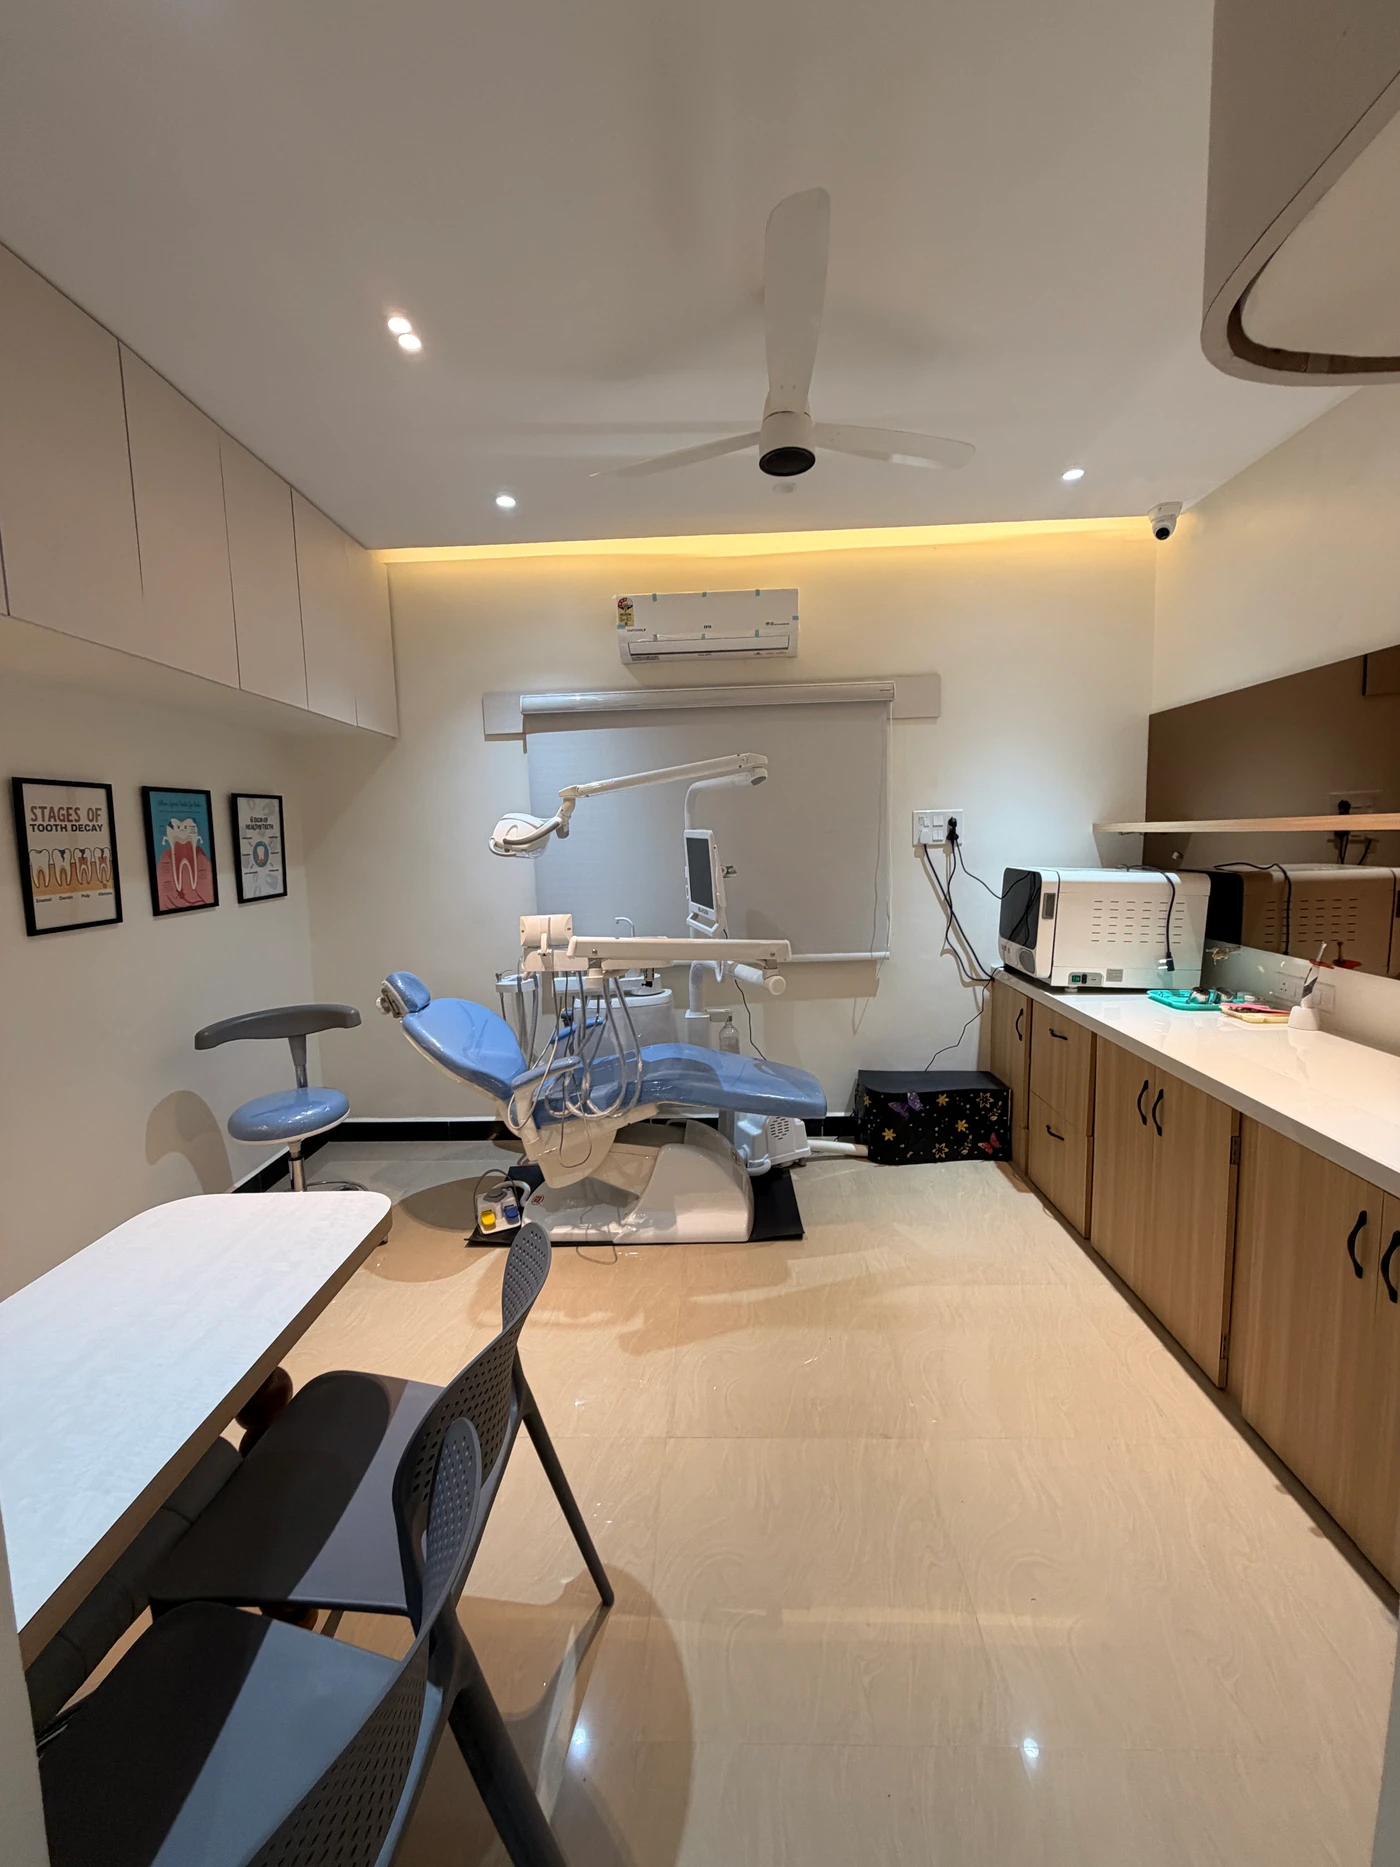
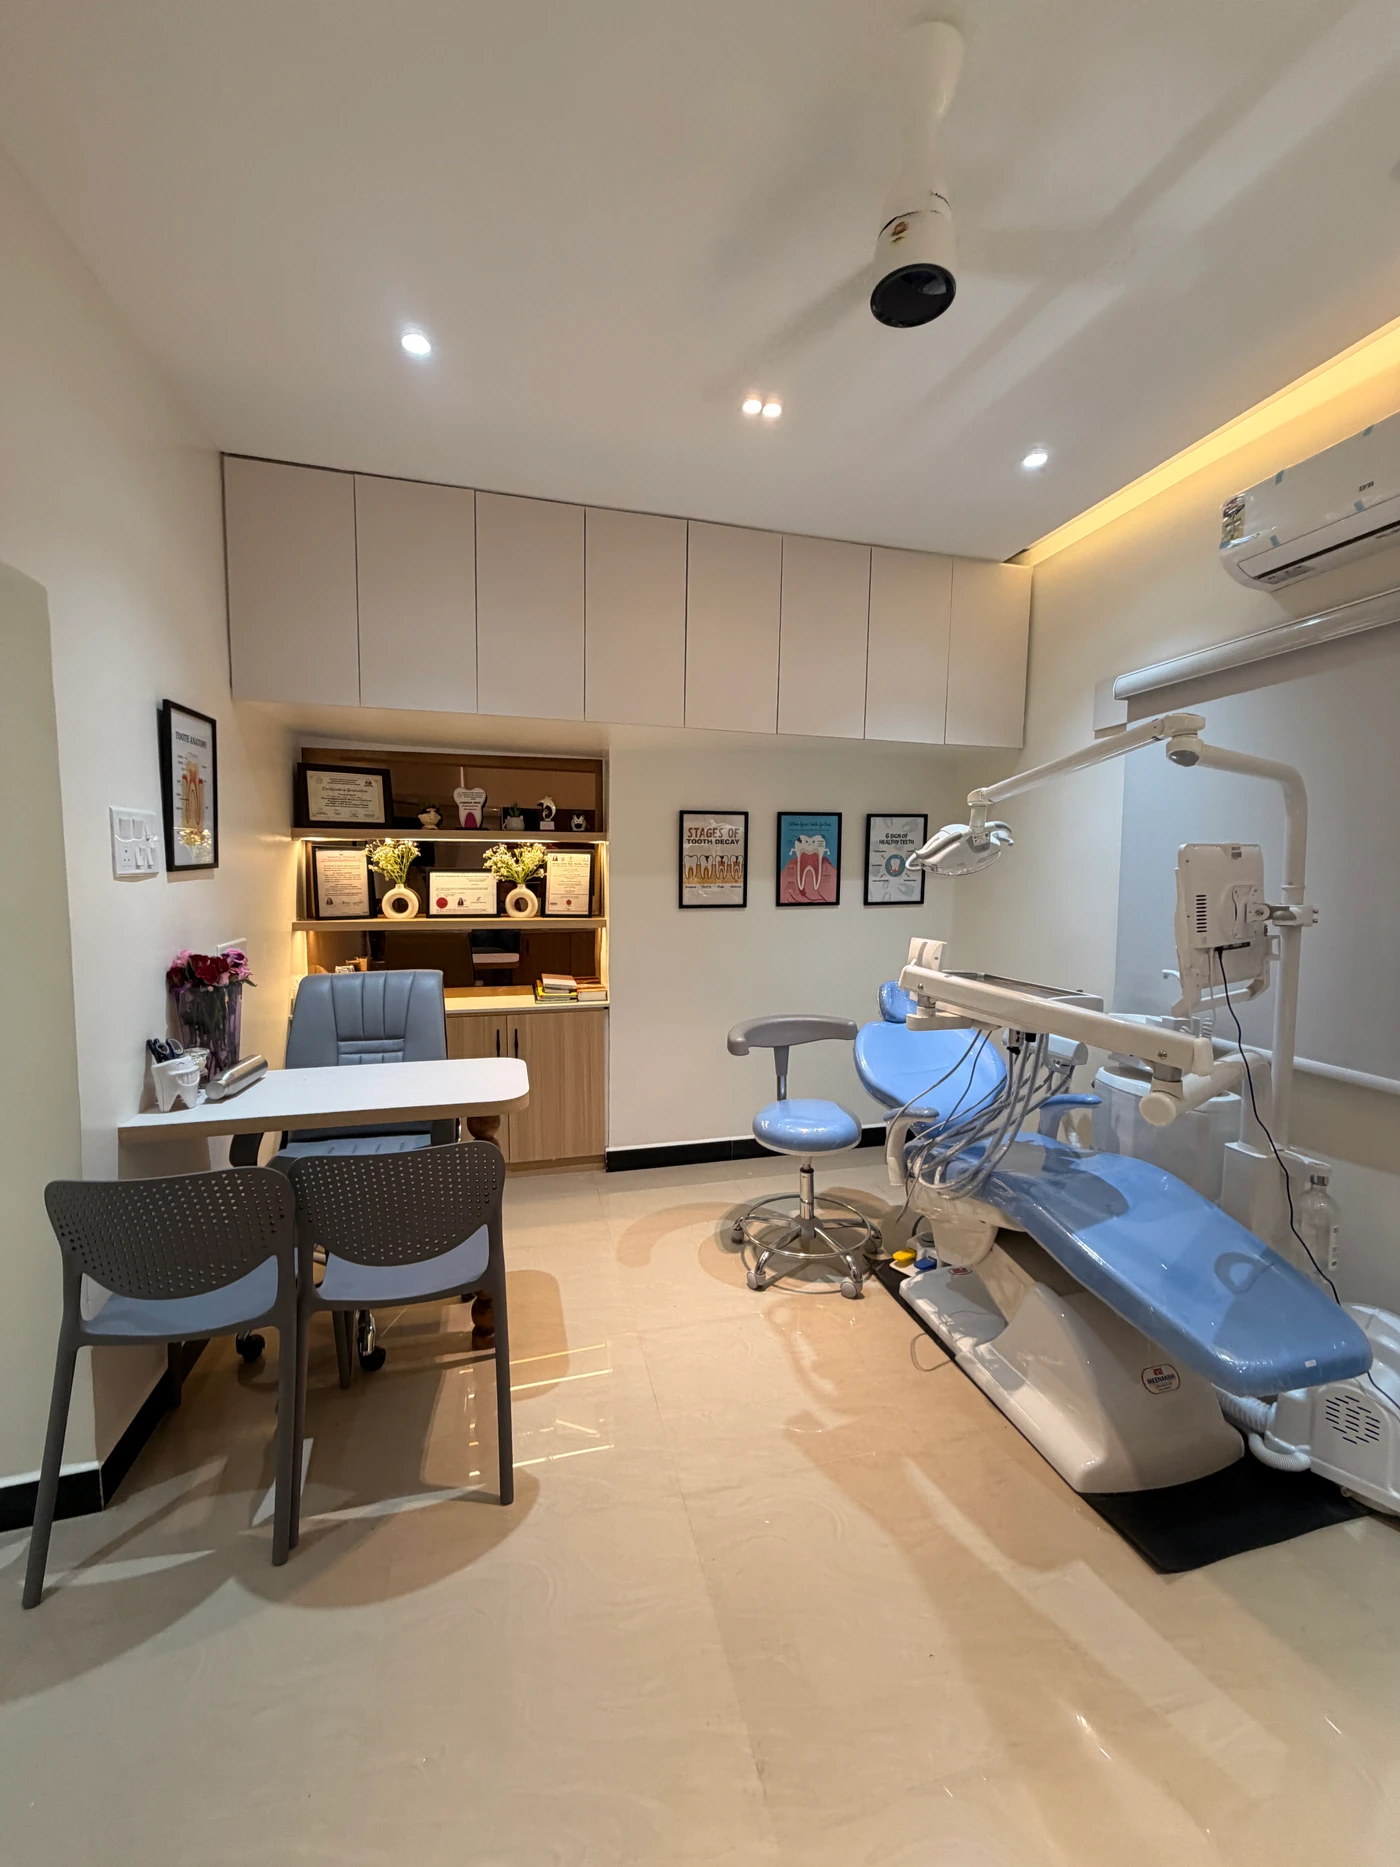
Improve hero clinic photos, add Saturday notice, and remove broken before/after slider

diff --git a/src/components/home/Hero.tsx b/src/components/home/Hero.tsx
@@ -1,17 +1,35 @@
 import { siteConfig } from "@/lib/site-config";
-import { MessageCircle, Phone, Sparkles } from "lucide-react";
+import { Info, MessageCircle, Phone, Sparkles } from "lucide-react";
 import Image from "next/image";
+
+const heroImages = [
+  {
+    src: "/images/clinic-treatment-room-wide.webp",
+    alt: "Modern dental treatment room at Align Dental Clinic",
+    label: "Treatment Room",
+  },
+  {
+    src: "/images/clinic-reception.webp",
+    alt: "Reception area at Align Dental Clinic",
+    label: "Reception",
+  },
+  {
+    src: "/images/clinic-exterior.webp",
+    alt: "Align Dental Clinic entrance in Ahilyanagar",
+    label: "Clinic Entrance",
+  },
+] as const;
 
 export function Hero() {
   return (
-    <section className="hero-section relative isolate min-h-[92vh] overflow-hidden bg-[#faf6ef] pt-28">
+    <section className="hero-section relative isolate overflow-hidden bg-[#faf6ef] pt-28 pb-16 lg:pb-24">
       <div className="grain-overlay bg-hero-gradient absolute inset-0" />
       <div className="pattern-dots absolute inset-0 opacity-60" />
       <div className="pointer-events-none absolute -right-40 top-20 h-[500px] w-[500px] rounded-full bg-gold/20 blur-[100px]" />
       <div className="pointer-events-none absolute -left-40 bottom-0 h-[400px] w-[400px] rounded-full bg-navy/8 blur-[80px]" />
 
-      <div className="relative mx-auto grid max-w-7xl items-center gap-12 px-4 py-12 sm:px-6 lg:grid-cols-2 lg:gap-16 lg:px-8 lg:py-20">
-        <div className="hero-content">
+      <div className="relative mx-auto max-w-7xl px-4 py-12 sm:px-6 lg:px-8 lg:py-16">
+        <div className="hero-content mx-auto max-w-3xl text-center lg:max-w-4xl">
           <div className="mb-6 inline-flex items-center gap-2 rounded-full border border-gold/40 bg-white px-4 py-2 shadow-sm">
             <Sparkles className="h-4 w-4 text-[#a8883f]" aria-hidden="true" />
             <span className="text-sm font-semibold tracking-wide text-[#152d4a]">
@@ -24,15 +42,15 @@ export function Hero() {
             <span className="hero-title-accent block">Now in Ahilyanagar</span>
           </h1>
 
-          <p className="mt-6 max-w-lg text-lg leading-relaxed sm:text-xl">
+          <p className="mx-auto mt-6 max-w-2xl text-lg leading-relaxed sm:text-xl">
             Advanced technology, expert orthodontic care, and patient-centred service —
             comprehensive dental treatments for your entire family.
           </p>
-          <p className="mt-3 max-w-lg text-base leading-relaxed opacity-80">
+          <p className="mx-auto mt-3 max-w-2xl text-base leading-relaxed opacity-80">
             {siteConfig.marathi.heroSubtitle}
           </p>
 
-          <div className="mt-10 flex flex-wrap gap-4">
+          <div className="mt-10 flex flex-wrap justify-center gap-4">
             <a
               href={siteConfig.contact.whatsappHref}
               target="_blank"
@@ -51,7 +69,20 @@ export function Hero() {
             </a>
           </div>
 
-          <div className="mt-10 flex items-center gap-4 border-t border-[#152d4a]/10 pt-8">
+          <p className="mx-auto mt-6 flex max-w-lg items-start gap-2 rounded-xl border border-gold/30 bg-white/80 px-4 py-3 text-left text-sm leading-relaxed text-[#3d5a78] shadow-sm backdrop-blur-sm">
+            <Info className="mt-0.5 h-4 w-4 shrink-0 text-gold-dark" aria-hidden="true" />
+            <span>
+              {siteConfig.contact.hours.saturdayNote}.{" "}
+              <a
+                href={siteConfig.contact.phoneHref}
+                className="font-semibold text-[#152d4a] underline decoration-gold/50 underline-offset-2 transition-colors hover:text-gold-dark"
+              >
+                {siteConfig.contact.phone}
+              </a>
+            </span>
+          </p>
+
+          <div className="mt-10 flex items-center justify-center gap-4 border-t border-[#152d4a]/10 pt-8">
             <div className="relative h-14 w-14 shrink-0 overflow-hidden rounded-full border-2 border-gold/40 shadow-md ring-2 ring-gold/20">
               <Image
                 src="/images/doctor-portrait.webp"
@@ -61,7 +92,7 @@ export function Hero() {
                 className="object-cover object-top"
               />
             </div>
-            <div>
+            <div className="text-left">
               <p className="font-heading text-lg font-semibold text-[#152d4a]">
                 {siteConfig.doctor.name}
               </p>
@@ -72,44 +103,29 @@ export function Hero() {
           </div>
         </div>
 
-        <div className="grid grid-cols-2 gap-4">
-          <div className="relative col-span-2 overflow-hidden rounded-2xl border-2 border-gold/30 shadow-[var(--shadow-card)] sm:col-span-1 sm:row-span-2">
-            <div className="absolute inset-x-0 top-0 z-10 h-1 bg-gradient-to-r from-gold-dark via-gold to-gold-light" />
-            <div className="relative aspect-[3/4] w-full sm:aspect-auto sm:h-full sm:min-h-[420px]">
-              <Image
-                src="/images/hero-treatment-room.webp"
-                alt="Modern dental treatment room at Align Dental Clinic"
-                fill
-                sizes="(max-width: 1024px) 50vw, 25vw"
-                className="object-cover object-center"
-                priority
-              />
+        <div className="mt-12 grid grid-cols-1 gap-5 sm:mt-14 sm:grid-cols-3 sm:gap-4 lg:mt-16 lg:gap-6">
+          {heroImages.map((image, index) => (
+            <div
+              key={image.src}
+              className="group flex flex-col overflow-hidden rounded-2xl border-2 border-gold/30 bg-cream shadow-[var(--shadow-card)] transition-all duration-300 hover:-translate-y-1 hover:border-gold/50 hover:shadow-[var(--shadow-soft)]"
+            >
+              <div className="relative aspect-[3/4] w-full bg-cream">
+                <div className="absolute inset-x-0 top-0 z-10 h-1 bg-gradient-to-r from-gold-dark via-gold to-gold-light" />
+                <Image
+                  src={image.src}
+                  alt={image.alt}
+                  fill
+                  unoptimized
+                  priority={index === 0}
+                  sizes="(max-width: 640px) 100vw, 33vw"
+                  className="object-contain p-3"
+                />
+              </div>
+              <p className="border-t border-gold/15 bg-warm-white px-4 py-3 text-center text-xs font-bold uppercase tracking-[0.14em] text-gold-dark">
+                {image.label}
+              </p>
             </div>
-          </div>
-          <div className="relative overflow-hidden rounded-2xl border-2 border-gold/30 shadow-[var(--shadow-card)]">
-            <div className="absolute inset-x-0 top-0 z-10 h-1 bg-gradient-to-r from-gold-dark via-gold to-gold-light" />
-            <div className="relative aspect-[4/3] w-full">
-              <Image
-                src="/images/hero-reception.webp"
-                alt="Reception area at Align Dental Clinic"
-                fill
-                sizes="(max-width: 1024px) 50vw, 25vw"
-                className="object-cover object-center"
-              />
-            </div>
-          </div>
-          <div className="relative overflow-hidden rounded-2xl border-2 border-gold/30 shadow-[var(--shadow-card)]">
-            <div className="absolute inset-x-0 top-0 z-10 h-1 bg-gradient-to-r from-gold-dark via-gold to-gold-light" />
-            <div className="relative aspect-[4/3] w-full">
-              <Image
-                src="/images/hero-exterior.webp"
-                alt="Align Dental Clinic entrance in Ahilyanagar"
-                fill
-                sizes="(max-width: 1024px) 50vw, 25vw"
-                className="object-cover object-top"
-              />
-            </div>
-          </div>
+          ))}
         </div>
       </div>
     </section>

diff --git a/src/lib/site-config.ts b/src/lib/site-config.ts
@@ -14,21 +14,21 @@ export const siteConfig = {
     registrationNo: "A-45270",
     education: [
       {
-        degree: "BDS",
-        institution: "Maharashtra University of Health Sciences (MUHS)",
-        focus: "Bachelor of Dental Surgery",
+        degree: "BDS (Bachelor of Dental Surgery)",
+        institution: "K.B.H. Dental College and Hospital, Nashik",
+        focus: "Graduated with a Bachelor of Dental Surgery",
       },
       {
-        degree: "MDS",
-        institution: "Maharashtra University of Health Sciences (MUHS)",
-        focus: "Orthodontics & Dentofacial Orthopedics",
+        degree: "MDS (Master of Dental Surgery)",
+        institution: "K M Shah Dental College And Hospital, Vadodara",
+        focus: "Orthodontics and Dentofacial Orthopaedics",
       },
     ],
     affiliations: [
       "Indian Orthodontic Society",
       "Maharashtra State Dental Council",
     ],
-    bio: "Dr. Aishwarya Aditya Mestry is a dedicated dental specialist with advanced MDS training in orthodontics and dentofacial orthopedics from MUHS. With a patient-first approach, she combines modern technology with compassionate care to deliver exceptional results for patients of all ages.",
+    bio: "Dr. Aishwarya Aditya Mestry is a dedicated dental specialist with a BDS from K.B.H. Dental College and Hospital, Nashik, and an MDS in Orthodontics and Dentofacial Orthopaedics from K M Shah Dental College And Hospital, Vadodara. With a patient-first approach, she combines modern technology with compassionate care to deliver exceptional results for patients of all ages.",
     extendedBio:
       "At Align Dental Clinic, Dr. Mestry leads a team committed to making quality dental care accessible and comfortable. From routine preventive care to complex orthodontic treatments, every patient receives personalized attention in a warm, modern environment equipped with high-quality instruments and digital diagnostics.",
   },
@@ -94,7 +94,7 @@ export const siteConfig = {
     {
       question: "What are your clinic timings?",
       answer:
-        "Align Dental Clinic is open Monday through Saturday, 11:00 AM to 7:00 PM. Walk-ins are welcome, but we recommend booking via WhatsApp or phone for a confirmed slot.",
+        "Align Dental Clinic is open Monday through Saturday, 11:00 AM to 7:00 PM. Walk-ins are welcome on weekdays, but we recommend booking via WhatsApp or phone. On Saturdays, please call before visiting to confirm availability.",
     },
   ],
 
@@ -125,6 +125,7 @@ export const siteConfig = {
       days: "Monday – Saturday",
       opens: "11:00",
       closes: "19:00",
+      saturdayNote: "Please call before visiting on Saturday",
     },
     mapsEmbedUrl:
       "https://www.google.com/maps/embed?pb=!1m18!1m12!1m3!1d3772.5!2d74.7363281!3d19.1216527!2m3!1f0!2f0!3f0!3m2!1i1024!2i768!4f13.1!3m3!1m2!1s0x3bdcbba6a522ba59%3A0xfe2d73f33acfb32!2sAlign%20Dental%20Clinic!5e0!3m2!1sen!2sin!4v1",
@@ -323,7 +324,7 @@ export const siteConfig = {
       category: "clinic",
     },
     {
-      src: "/images/hero-reception.webp",
+      src: "/images/clinic-reception.webp",
       alt: "Welcoming reception and waiting area at Align Dental Clinic",
       caption: "Reception & Waiting Area",
       category: "clinic",
@@ -335,7 +336,7 @@ export const siteConfig = {
       category: "clinic",
     },
     {
-      src: "/images/clinic-treatment-room-2.webp",
+      src: "/images/clinic-treatment-room-wide.webp",
       alt: "Spacious dental operatory at Align Dental Clinic",
       caption: "Operatory",
       category: "clinic",

diff --git a/src/components/home/SmileTransformations.tsx b/src/components/home/SmileTransformations.tsx
@@ -1,7 +1,7 @@
 import { siteConfig } from "@/lib/site-config";
+import Image from "next/image";
 import Link from "next/link";
 import { AnimatedSection } from "../shared/AnimatedSection";
-import { BeforeAfterSlider } from "../shared/BeforeAfterSlider";
 import { Section, SectionHeader } from "../ui/Section";
 
 export function SmileTransformations() {
@@ -18,7 +18,23 @@ export function SmileTransformations() {
       <div className="mt-14 grid gap-8 md:grid-cols-3">
         {siteConfig.transformations.map((item, index) => (
           <AnimatedSection key={item.src} delay={index * 0.1}>
-            <BeforeAfterSlider src={item.src} alt={item.alt} label={item.label} />
+            <div className="group overflow-hidden rounded-2xl border border-gold/20 bg-warm-white shadow-[var(--shadow-soft)] transition-all duration-300 hover:-translate-y-1 hover:border-gold/40 hover:shadow-[var(--shadow-card)]">
+              <div className="relative aspect-square w-full overflow-hidden bg-cream">
+                <Image
+                  src={item.src}
+                  alt={item.alt}
+                  fill
+                  sizes="(max-width: 768px) 100vw, 33vw"
+                  className="object-contain p-3 transition-transform duration-500 group-hover:scale-[1.02]"
+                />
+              </div>
+              <div className="border-t border-gold/15 px-5 py-4 text-center">
+                <p className="font-heading text-lg font-semibold text-navy">{item.label}</p>
+                <p className="mt-1 text-xs font-medium uppercase tracking-wider text-gold-dark">
+                  Before & After
+                </p>
+              </div>
+            </div>
           </AnimatedSection>
         ))}
       </div>

diff --git a/src/components/home/TrustBar.tsx b/src/components/home/TrustBar.tsx
@@ -9,6 +9,7 @@ export function TrustBar() {
       icon: Clock,
       label: "Clinic Hours",
       value: `${contact.hours.days}: ${contact.hours.display}`,
+      note: contact.hours.saturdayNote,
     },
     {
       icon: MapPin,
@@ -49,6 +50,9 @@ export function TrustBar() {
               ) : (
                 <p className="mt-0.5 font-semibold text-white">{item.value}</p>
               )}
+              {"note" in item && item.note ? (
+                <p className="mt-1 text-xs font-medium text-gold-light/70">{item.note}</p>
+              ) : null}
             </div>
           </div>
         ))}

diff --git a/src/components/contact/ContactInfo.tsx b/src/components/contact/ContactInfo.tsx
@@ -28,6 +28,7 @@ export function ContactInfo() {
       icon: Clock,
       label: "Hours",
       value: `${contact.hours.days}: ${contact.hours.display}`,
+      note: contact.hours.saturdayNote,
     },
     {
       icon: MapPin,
@@ -60,6 +61,9 @@ export function ContactInfo() {
             ) : (
               <p className="mt-0.5 font-semibold text-navy">{item.value}</p>
             )}
+            {"note" in item && item.note ? (
+              <p className="mt-1 text-sm text-navy-muted">{item.note}</p>
+            ) : null}
           </div>
         </Card>
       ))}

diff --git a/src/components/layout/Footer.tsx b/src/components/layout/Footer.tsx
@@ -81,6 +81,8 @@ export function Footer() {
                   {contact.hours.days}
                   <br />
                   {contact.hours.display}
+                  <br />
+                  <span className="text-gold-light/80">{contact.hours.saturdayNote}</span>
                 </span>
               </li>
             </ul>
